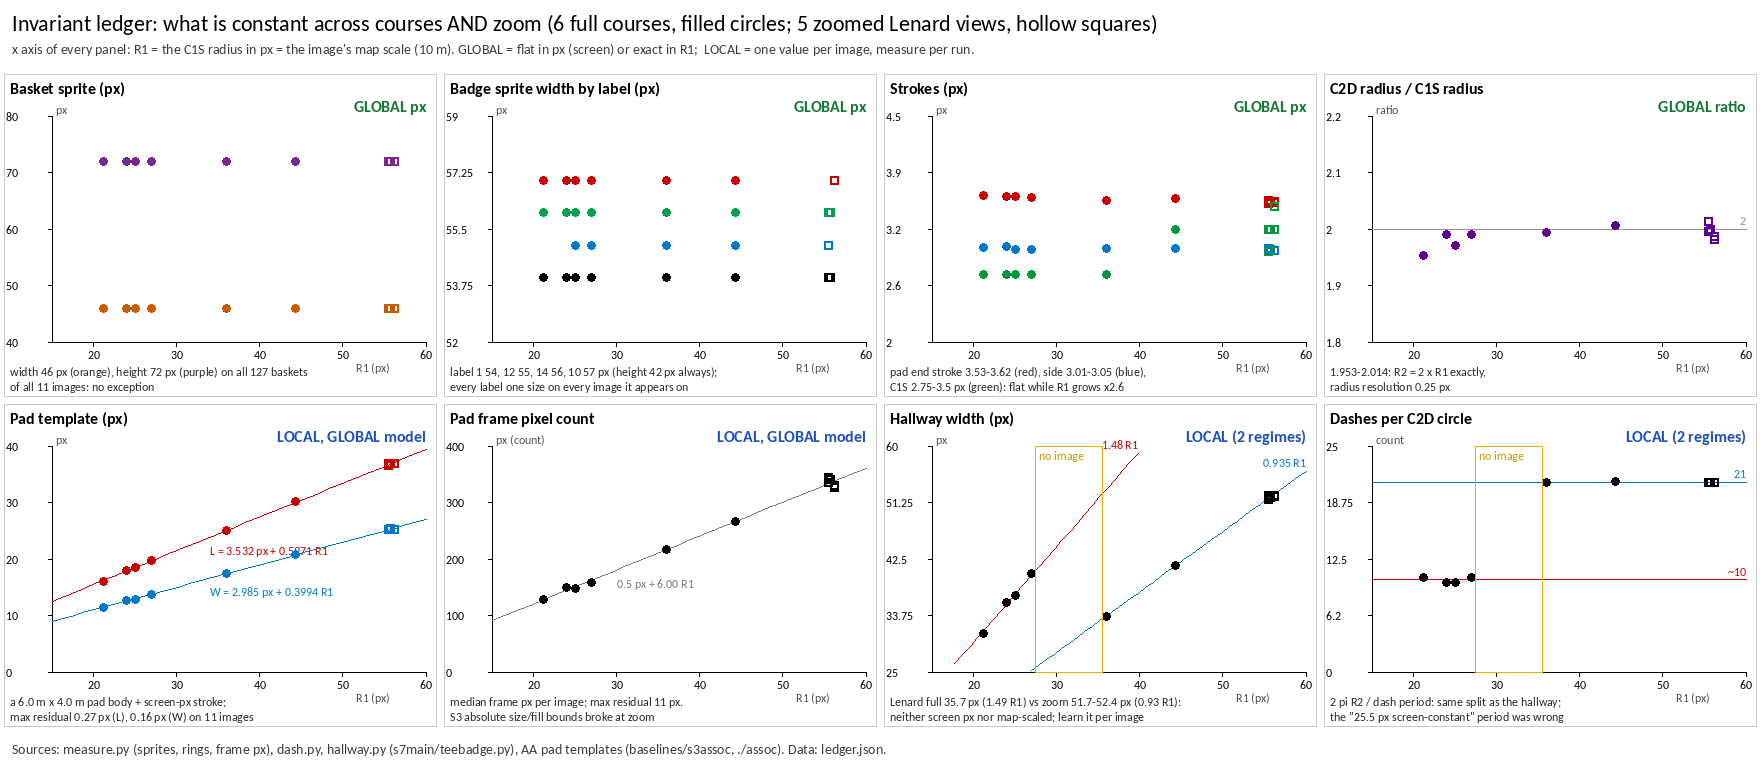
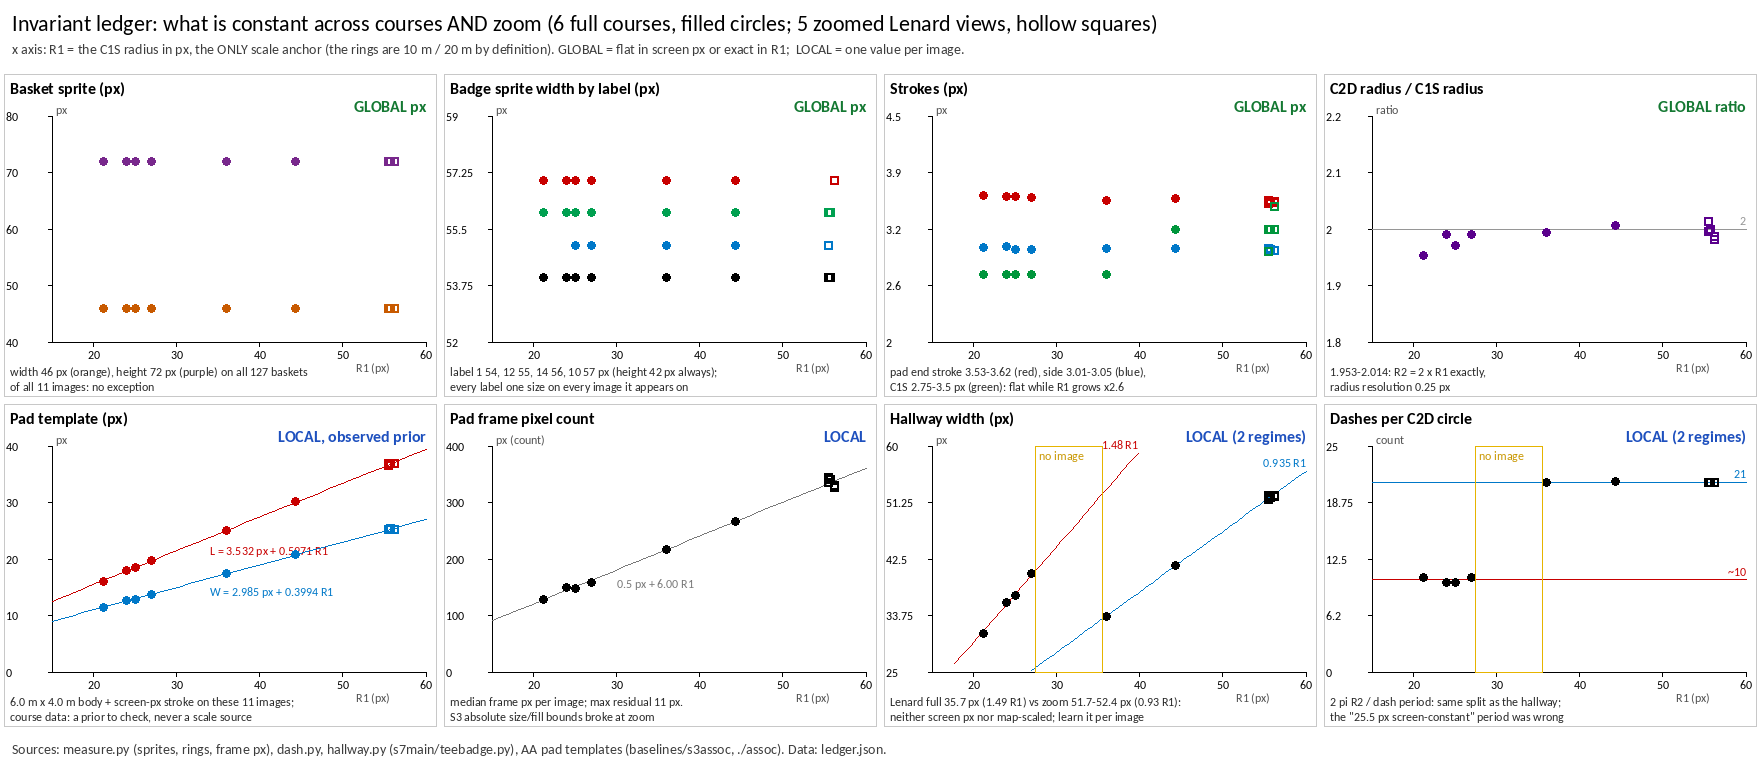
Scale comes from the rings only; the pad size is an observed prior, never a scale source
Sam: "pad size COULD vary. Circle1Radius and Circle2Radius WILL NEVER VARY."
- fg/scene/invariants.mjs: scaleFromPad removed. SCALE_ANCHOR = C1S 10 m,
  C2D 20 m. orient() takes its scale from the rings alone. It checks the
  fitted pad template against the 6 m x 4 m prior (padAgainstPrior). A
  miss becomes a finding that gives the pads' size in metres; the scale is
  untouched.
- Test: golden's rings with pads 20% bigger keep R1 44.25 px and report
  7.17 m x 4.79 m pads.
- Ledger, README, doctrine: the pad model is an OBSERVED prior (course
  data), not a GLOBAL model. R1 is the only scale anchor.

Claude-Session: https://claude.ai/code/session_01EiRF33JBG7FEiMhXczeLaq

diff --git a/docs/evidence/ledger/build.py b/docs/evidence/ledger/build.py
@@ -49,7 +49,8 @@ add('C1S stroke', 'px (FWHM of the mean radial profile, 0.25 px steps)', 'GLOBAL
 # --- rings ---
 q = {n: r(M[n]['rings']['R2'] / M[n]['rings']['R1']) for n in NAMES}
 add('C2D radius / C1S radius', 'ratio', 'GLOBAL', 2, q, f'{min(q.values()):.3f}-{max(q.values()):.3f} (radius resolution 0.25 px)', 'C2D Part = 2 x R1 around the BasketPoint')
-add('C1S radius R1 (10 m)', 'px', 'LOCAL', spread(R1.values()), R1, 'one radius per image (pair fit (R, 2R) over every basket); zoomed Lenard 55.5-56.25 px vs full Lenard 24 px', 'the image scale: everything map-scaled is a multiple of it')
+add('C1S radius R1 (10 m)', 'px', 'LOCAL', spread(R1.values()), R1, 'one radius per image (pair fit (R, 2R) over every basket); zoomed Lenard 55.5-56.25 px vs full Lenard 24 px. On the ground the rings are the app\'s definition (10 m, 20 m) and never vary',
+    'THE scale anchor, and the only one: everything course-made (pads, hallways) is predicted from it and checked, never used to set it')
 
 # --- pad (map-scaled body + screen-px stroke) ---
 x = np.array([R1[n] for n in NAMES])
@@ -59,9 +60,9 @@ def fit(vals):
 L = {n: T[n]['L'] for n in NAMES}; Wd = {n: T[n]['W'] for n in NAMES}; FP = {n: float(np.median(M[n]['padFramePx'])) for n in NAMES}
 aL, bL, resL, mL = fit(L); aW, bW, resW, mW = fit(Wd); aF, bF, resF, mF = fit(FP)
 add('pad length', 'px (AA render fit, template median per image)', 'LOCAL', spread(L.values()), L,
-    f'GLOBAL model: L = {aL} px + {bL} x R1 (max residual {mL} px on {len(NAMES)} images): a {bL*10:.2f} m body plus a screen-px stroke ({aL} px ~ the end stroke)', 'pad template predicted from R1 before any pad is fitted')
+    f'OBSERVED prior (course data, could vary on another course): L = {aL} px + {bL} x R1 (max residual {mL} px on {len(NAMES)} images): a {bL*10:.2f} m body plus a screen-px stroke ({aL} px ~ the end stroke)', 'where S3 looks first; a course whose pads miss it is a finding, never a rescale')
 add('pad width', 'px (AA render fit, template median per image)', 'LOCAL', spread(Wd.values()), Wd,
-    f'GLOBAL model: W = {aW} px + {bW} x R1 (max residual {mW} px): a {bW*10:.2f} m body plus the side stroke', 'pad template predicted from R1')
+    f'OBSERVED prior (course data): W = {aW} px + {bW} x R1 (max residual {mW} px): a {bW*10:.2f} m body plus the side stroke', 'pad prior; checked, never a scale source')
 add('pad frame pixel count', 'px (count, S3 frame part, median per image)', 'LOCAL', spread(FP.values()), FP,
     f'~linear in R1: {aF} px + {bF} x R1 (max residual {mF} px): a screen-px stroke around a map-scaled perimeter', 'S3 size bounds relative to R1, never absolute')
 exec('IMAGES_LIST=' + open(f'{HERE}/measure.py').read().split('IMAGES=')[1].split('\nsamp=')[0])
@@ -107,7 +108,7 @@ f12, f14, f16, f22 = (ImageFont.truetype(F, s) for s in (12, 14, 16, 22)); b16 =
 PW, PH, PAD = 440, 330, 52; COLS, ROWS = 4, 2; HEAD = 70
 img = Image.new('RGB', (PW * COLS, HEAD + PH * ROWS + 40), 'white'); dr = ImageDraw.Draw(img)
 dr.text((12, 10), 'Invariant ledger: what is constant across courses AND zoom (6 full courses, filled circles; 5 zoomed Lenard views, hollow squares)', font=f22, fill='black')
-dr.text((12, 40), 'x axis of every panel: R1 = the C1S radius in px = the image\'s map scale (10 m). GLOBAL = flat in px (screen) or exact in R1;  LOCAL = one value per image, measure per run.', font=f14, fill=(60, 60, 60))
+dr.text((12, 40), 'x axis: R1 = the C1S radius in px, the ONLY scale anchor (the rings are 10 m / 20 m by definition). GLOBAL = flat in screen px or exact in R1;  LOCAL = one value per image.', font=f14, fill=(60, 60, 60))
 SCOPE_COL = {'GLOBAL': (20, 120, 50), 'LOCAL': (30, 80, 190), 'VARIABLE': (180, 60, 30)}
 def panel(i, title, scope, ylo, yhi, series, lines=(), note='', ylab=''):
     ox, oy = (i % COLS) * PW, HEAD + (i // COLS) * PH
@@ -142,10 +143,10 @@ panel(2, 'Strokes (px)', 'GLOBAL px', 2, 4.5, [(se, (200, 0, 0)), (ss, (0, 120, 
       note=f'pad end stroke {min(se.values()):.2f}-{max(se.values()):.2f} (red), side {min(ss.values()):.2f}-{max(ss.values()):.2f} (blue),\nC1S {min(w1.values())}-{max(w1.values())} px (green): flat while R1 grows x2.6', ylab='px')
 panel(3, 'C2D radius / C1S radius', 'GLOBAL ratio', 1.8, 2.2, [(q, (90, 0, 140))], lines=[(lambda v: 2.0, (150, 150, 150), '2')],
       note=f'{min(q.values()):.3f}-{max(q.values()):.3f}: R2 = 2 x R1 exactly,\nradius resolution 0.25 px', ylab='ratio')
-panel(4, 'Pad template (px)', 'LOCAL, GLOBAL model', 0, 40, [(L, (200, 0, 0)), (Wd, (0, 120, 200))],
+panel(4, 'Pad template (px)', 'LOCAL, observed prior', 0, 40, [(L, (200, 0, 0)), (Wd, (0, 120, 200))],
       lines=[(lambda v: aL + bL * v, (200, 0, 0), f'L = {aL} px + {bL} R1', 34), (lambda v: aW + bW * v, (0, 120, 200), f'W = {aW} px + {bW} R1', 34)],
-      note=f'a {bL*10:.1f} m x {bW*10:.1f} m pad body + screen-px stroke;\nmax residual {mL} px (L), {mW} px (W) on 11 images', ylab='px')
-panel(5, 'Pad frame pixel count', 'LOCAL, GLOBAL model', 0, 400, [(FP, (0, 0, 0))], lines=[(lambda v: aF + bF * v, (120, 120, 120), f'{aF:.1f} px + {bF:.2f} R1', 30)],
+      note=f'{bL*10:.1f} m x {bW*10:.1f} m body + screen-px stroke on these 11 images;\ncourse data: a prior to check, never a scale source', ylab='px')
+panel(5, 'Pad frame pixel count', 'LOCAL', 0, 400, [(FP, (0, 0, 0))], lines=[(lambda v: aF + bF * v, (120, 120, 120), f'{aF:.1f} px + {bF:.2f} R1', 30)],
       note=f'median frame px per image; max residual {mF:.0f} px.\nS3 absolute size/fill bounds broke at zoom', ylab='px (count)')
 X6, Y6 = panel(6, 'Hallway width (px)', 'LOCAL (2 regimes)', 25, 60, [(hw, (0, 0, 0))],
       lines=[(lambda v: 0.935 * v, (0, 120, 200), '0.935 R1'), (lambda v: 1.48 * v, (200, 0, 0), '1.48 R1')],

diff --git a/docs/evidence/ledger/README.md b/docs/evidence/ledger/README.md
@@ -10,6 +10,12 @@ northpark) and 5 zoomed Lenard views (Lenard-1..5, each one screenshot, no
 assembly). The x axis of every panel is R1 = the C1S radius in px, i.e. the
 image's map scale (10 m on the ground).
 
+**Scale comes from the rings only** (Sam, 2026-10-18: "pad size COULD vary.
+Circle1Radius and Circle2Radius WILL NEVER VARY"). The rings are the app's
+definition (10 m, 20 m). Pads and hallways are course data: however constant
+they looked here, they are predicted from the ring scale and checked, never
+used to set it.
+
 ![ledger](ledger.png)
 
 | scope | quantity | value | evidence |
@@ -19,8 +25,8 @@ image's map scale (10 m on the ground).
 | GLOBAL | pad frame stroke | ends 3.53-3.62 px, sides 3.01-3.05 px | AA render fit; flat while R1 grows x2.6 |
 | GLOBAL | C1S stroke | 2.75-3.5 px FWHM | 0.25 px radial steps |
 | GLOBAL | C2D radius / C1S radius | 2 (1.953-2.014) | radius resolution 0.25 px |
-| GLOBAL model | pad template | length = 3.53 px + 0.597 x R1, width = 2.99 px + 0.399 x R1 | max residual 0.27 px / 0.16 px; a 6.0 m x 4.0 m body plus the screen-px stroke (intercepts = the strokes) |
-| LOCAL | R1 | 21.25-56.25 px | one radius per image |
+| OBSERVED prior | pad template | length = 3.53 px + 0.597 x R1, width = 2.99 px + 0.399 x R1 | max residual 0.27 px / 0.16 px on these 11 images: a 6.0 m x 4.0 m body plus the screen-px stroke (intercepts = the strokes). Course data: another course's pads could differ |
+| LOCAL (px), fixed on the ground | R1 | 21.25-56.25 px = 10 m | one radius per image; the only scale anchor |
 | LOCAL | pad frame px | 129-344 px (count) | ~0.5 px + 6.0 x R1 |
 | LOCAL | S3 band fill | median 0.80-0.82 full, 0.61-0.64 zoom (fraction) | an absolute bound found no anchors at zoom |
 | LOCAL | hallway width | 31.03-52.38 px | IQR within an image <= 0.48 px |
@@ -33,10 +39,12 @@ image's map scale (10 m on the ground).
 What is constant within an image is measured once and then predicts the
 rest:
 
-- **Scale from two independent signals.** R1 from the rings and R1 from the
-  fitted pad template (inverting the pad model) agree within 0.40 px on all
-  11 images (golden 0.29, alex 0.01, lenard 0.18, townelake 0.11, heritage
-  0.25, northpark 0.08, Lenard-1..5 0.01-0.40 px).
+- **Scale from the rings, and nothing else.** From R1, the pad prior, the C2D
+  radius and the hallway width are predicted before they are fitted.
+- **Pad check.** The fitted pad template is compared with the prior at the
+  ring scale. On all 11 images it matches within 0.27 px (length) and
+  0.16 px (width). A course whose pads miss it gets a finding giving the
+  pads' size in metres. The scale is untouched.
 - **Regime.** Scale, hallway width / R1 and dash count vote; they agree on all 11
   images. Between R1 27 and 36 px nothing is assumed (`unresolved`).
 - **Hallway prediction.** The regime ratio x R1 brackets the measured hallway

diff --git a/DOCTRINE.md b/DOCTRINE.md
@@ -14,11 +14,16 @@ right and the repo is behind. Every number carries a unit.
 - **C2 = 2 x C1 exactly**, both centred on the basket. Measured ratio
   1.96-2.06 across four courses; the spread is our fit error. Their radius
   gives the course scale in px per m.
-- **Tee pads are one rigid template per image.** A pad is a 6.0 m x 4.0 m
-  ground rectangle (0.597 x R1 by 0.399 x R1) outlined by a screen-px
-  frame stroke (3.53-3.62 px ends, 3.01-3.05 px sides): length = 3.53 px +
-  0.597 x R1, width = 2.99 px + 0.399 x R1, max residual 0.27 px on 6 full
-  courses and 5 zoomed views. The pad interior is an image-constant grey
+- **Scale comes from the rings only** (Sam, 2026-10-18: "pad size COULD
+  vary. Circle1Radius and Circle2Radius WILL NEVER VARY"). C1 = 10 m and
+  C2 = 20 m are the app's definition; R1 in px is the image's scale. Nothing
+  course-made (pads, hallways) ever sets or corrects it.
+- **Tee pads are one rigid template per image.** On all 11 dev images a pad
+  is a 6.0 m x 4.0 m ground rectangle outlined by a screen-px frame stroke
+  (3.53-3.62 px ends, 3.01-3.05 px sides): length = 3.53 px + 0.597 x R1,
+  width = 2.99 px + 0.399 x R1, max residual 0.27 px. That is an observed
+  prior, not a constant: pad size is course data. Predict from it, fit the
+  image's own pads, and report a miss as a finding about the pads. The pad interior is an image-constant grey
   (golden RGB 158/157/159). The C2 dash period is NOT screen-constant (an
   earlier reading said 25.5 px): it is 21.5-33.5 px, see the ledger below.
 - **Constant means constant across courses AND zoom scales** (Sam,
@@ -26,9 +31,9 @@ right and the repo is behind. Every number carries a unit.
   `docs/evidence/ledger/`):
   GLOBAL (holds on full courses and zoomed views): basket sprite 46 x 72
   px; badge sprite size by label; frame and ring strokes in screen px;
-  C2 = 2 x C1; the pad model in R1.
+  C2 = 2 x C1 (10 m and 20 m by definition: the scale anchor).
   LOCAL (one value per image, measured on every run, free orientation in a
-  blind run): R1 (21-56 px), pad template, pad frame px, S3 band fill,
+  blind run): R1 (21-56 px), pad template (prior 6 m x 4 m, checked), pad frame px, S3 band fill,
   hallway width (31-52 px), C2 dash period. Hallway width / R1 and dashes
   per C2 circle fall in two scale regimes (1.46-1.49 and ~10 dashes when
   R1 <= 27 px; 0.93-0.94 and ~21 dashes when R1 >= 36 px; full Lenard and
